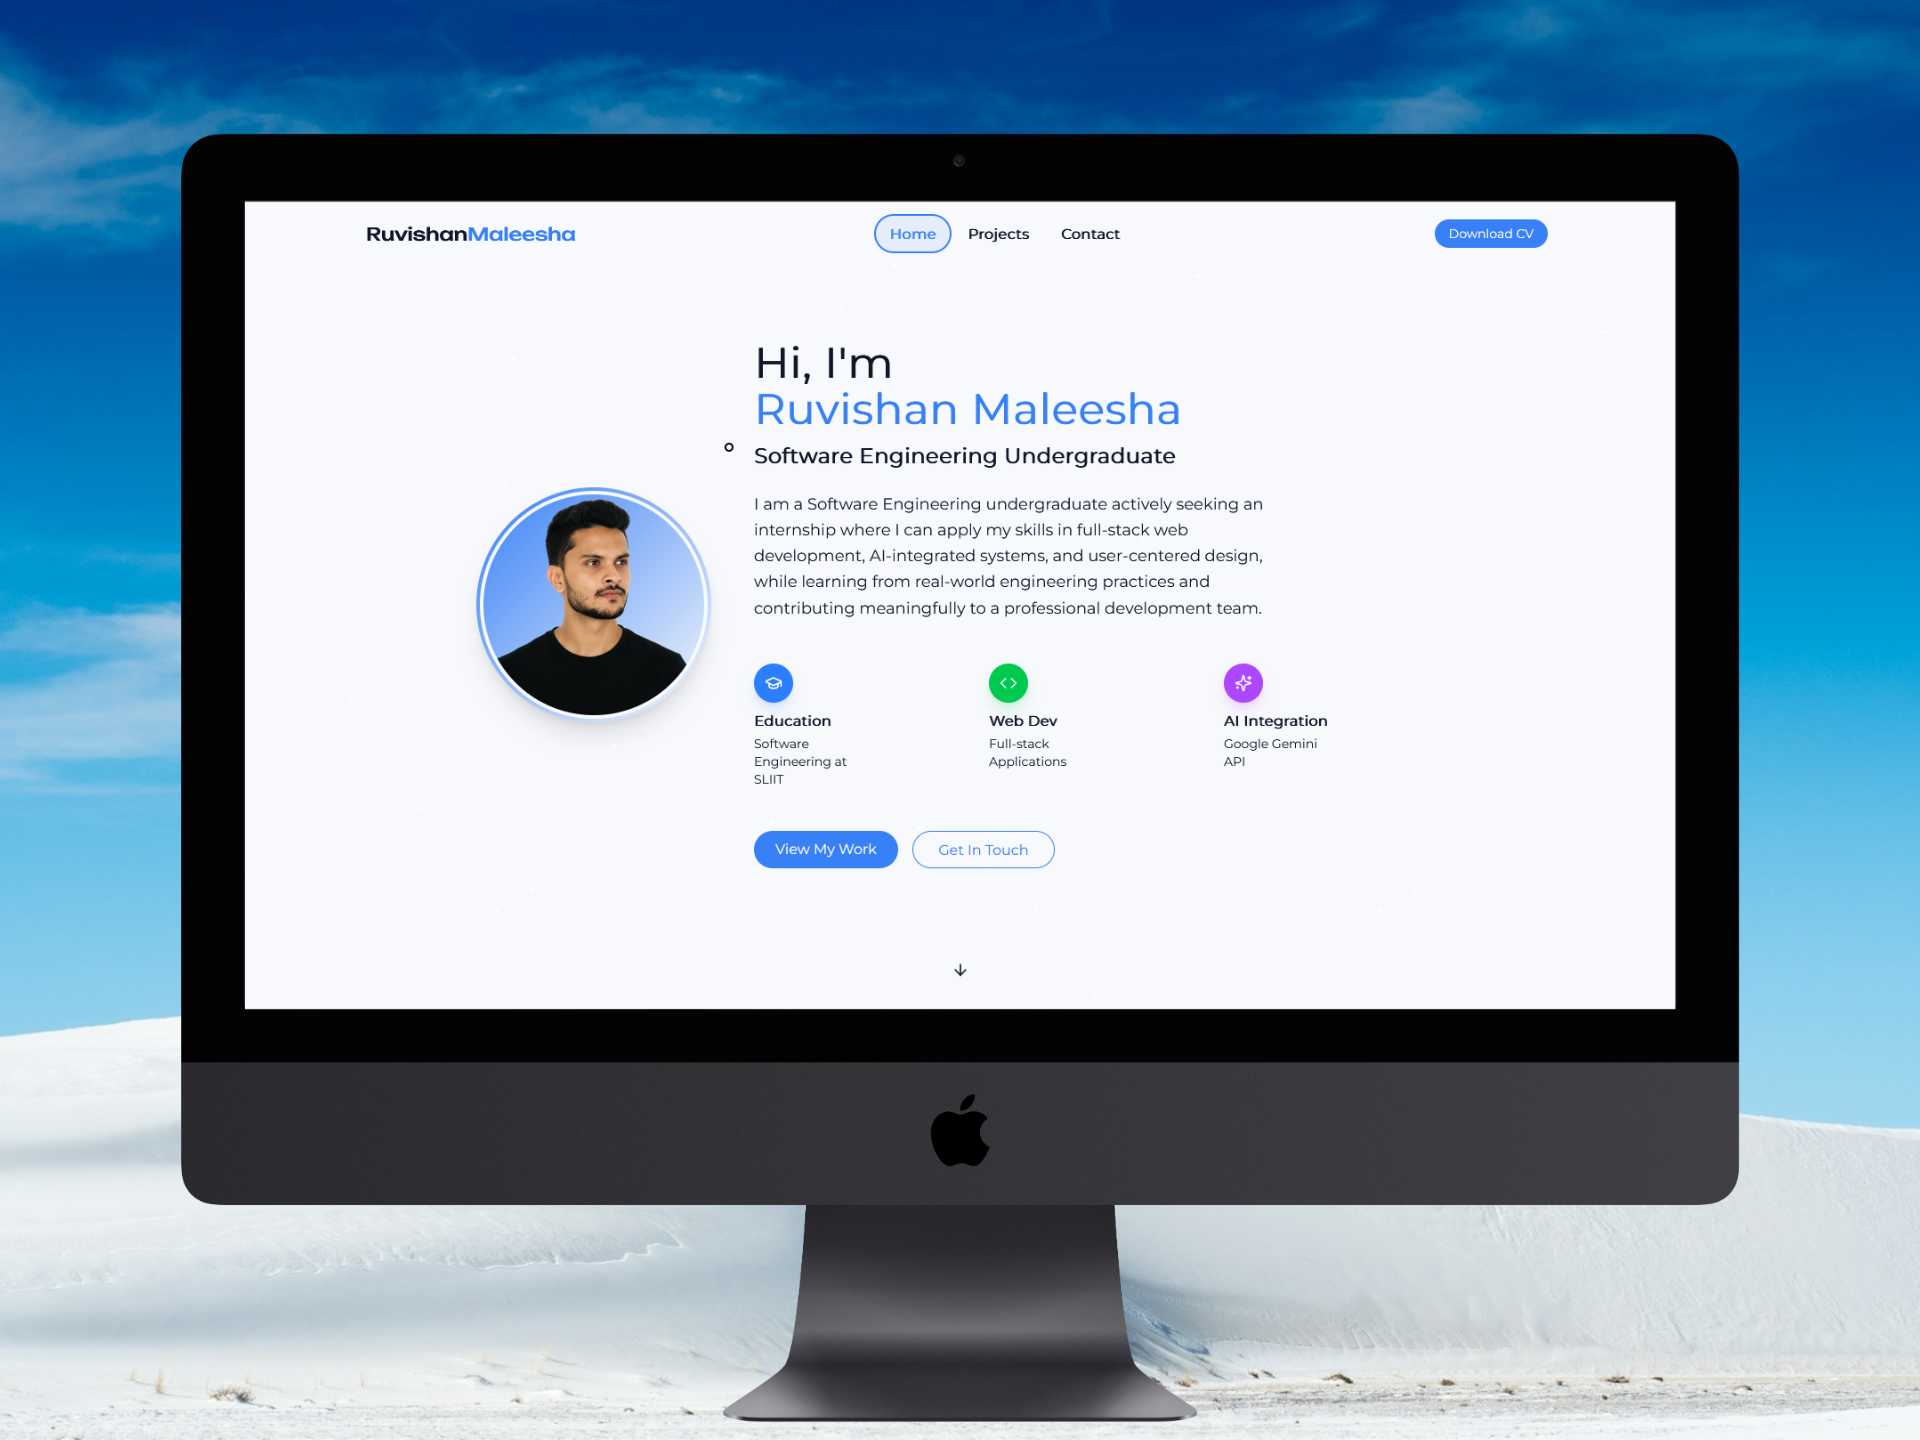
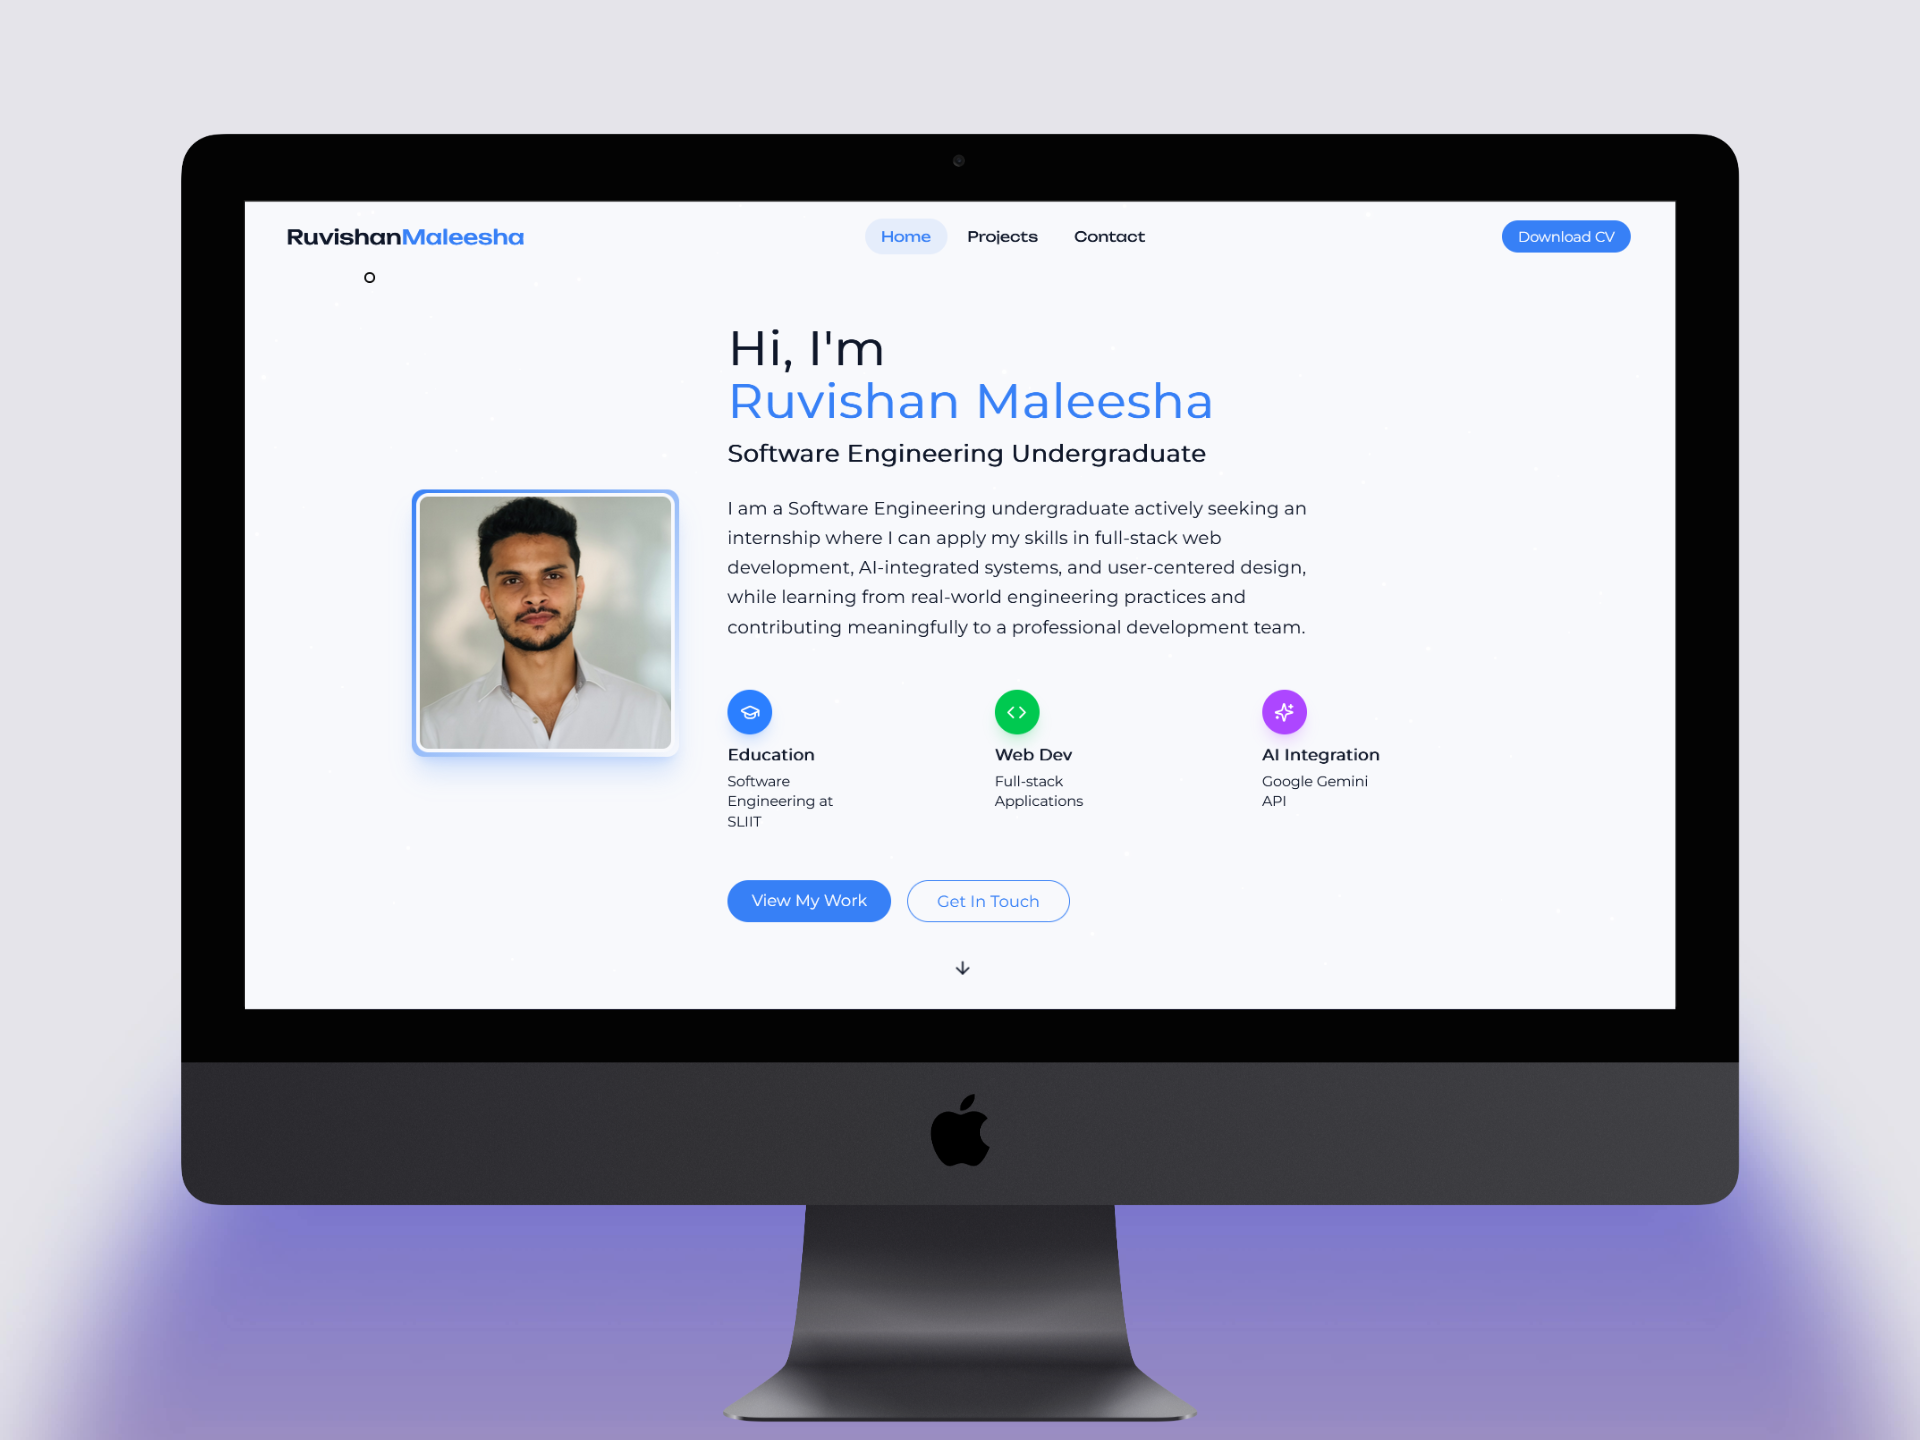
Update profile image styling to square shape with enhanced design

diff --git a/src/components/HeroSection.jsx b/src/components/HeroSection.jsx
@@ -4,17 +4,17 @@ export const HeroSection = () => {
   return (
     <section
       id="hero"
-      className="relative min-h-screen flex items-center px-4 py-12"
+      className="relative min-h-screen flex items-center px-4 py-12 pt-20"
     >
       <div className="container max-w-6xl mx-auto z-10">
         <div className="flex flex-col md:flex-row items-center gap-10 md:gap-12">
           {/* Profile Image - Left Side */}
           <div className="flex-shrink-0 flex justify-center md:block order-2 md:order-1">
-            <div className="p-1 bg-gradient-to-br from-primary to-secondary rounded-full overflow-hidden shadow-xl">
+            <div className="p-1 bg-gradient-to-br from-primary to-secondary rounded-xl overflow-hidden shadow-xl shadow-primary/20">
               <img
                 src="/src/assets/my dp.png"
                 alt="Ruvishan Maleesha"
-                className="w-48 h-48 md:w-56 md:h-56 lg:w-64 lg:h-64 object-cover rounded-full border-4 border-background"
+                className="w-48 h-48 md:w-56 md:h-56 lg:w-64 lg:h-64 object-cover rounded-xl border-4 border-background bg-background"
               />
             </div>
           </div>
